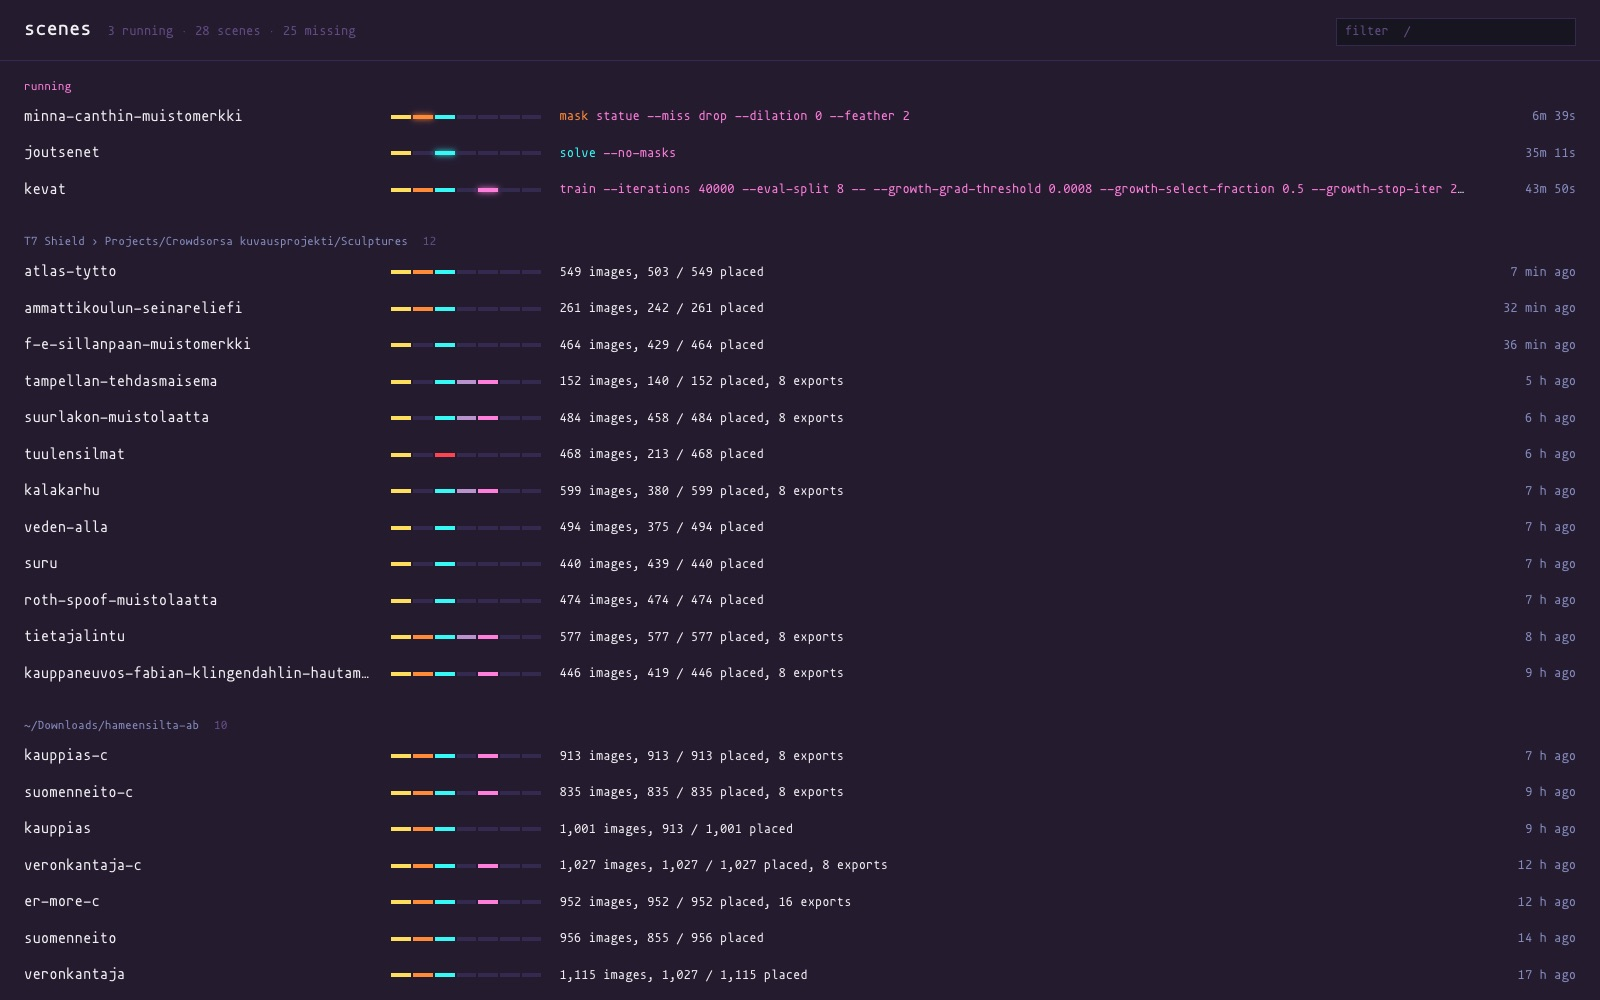
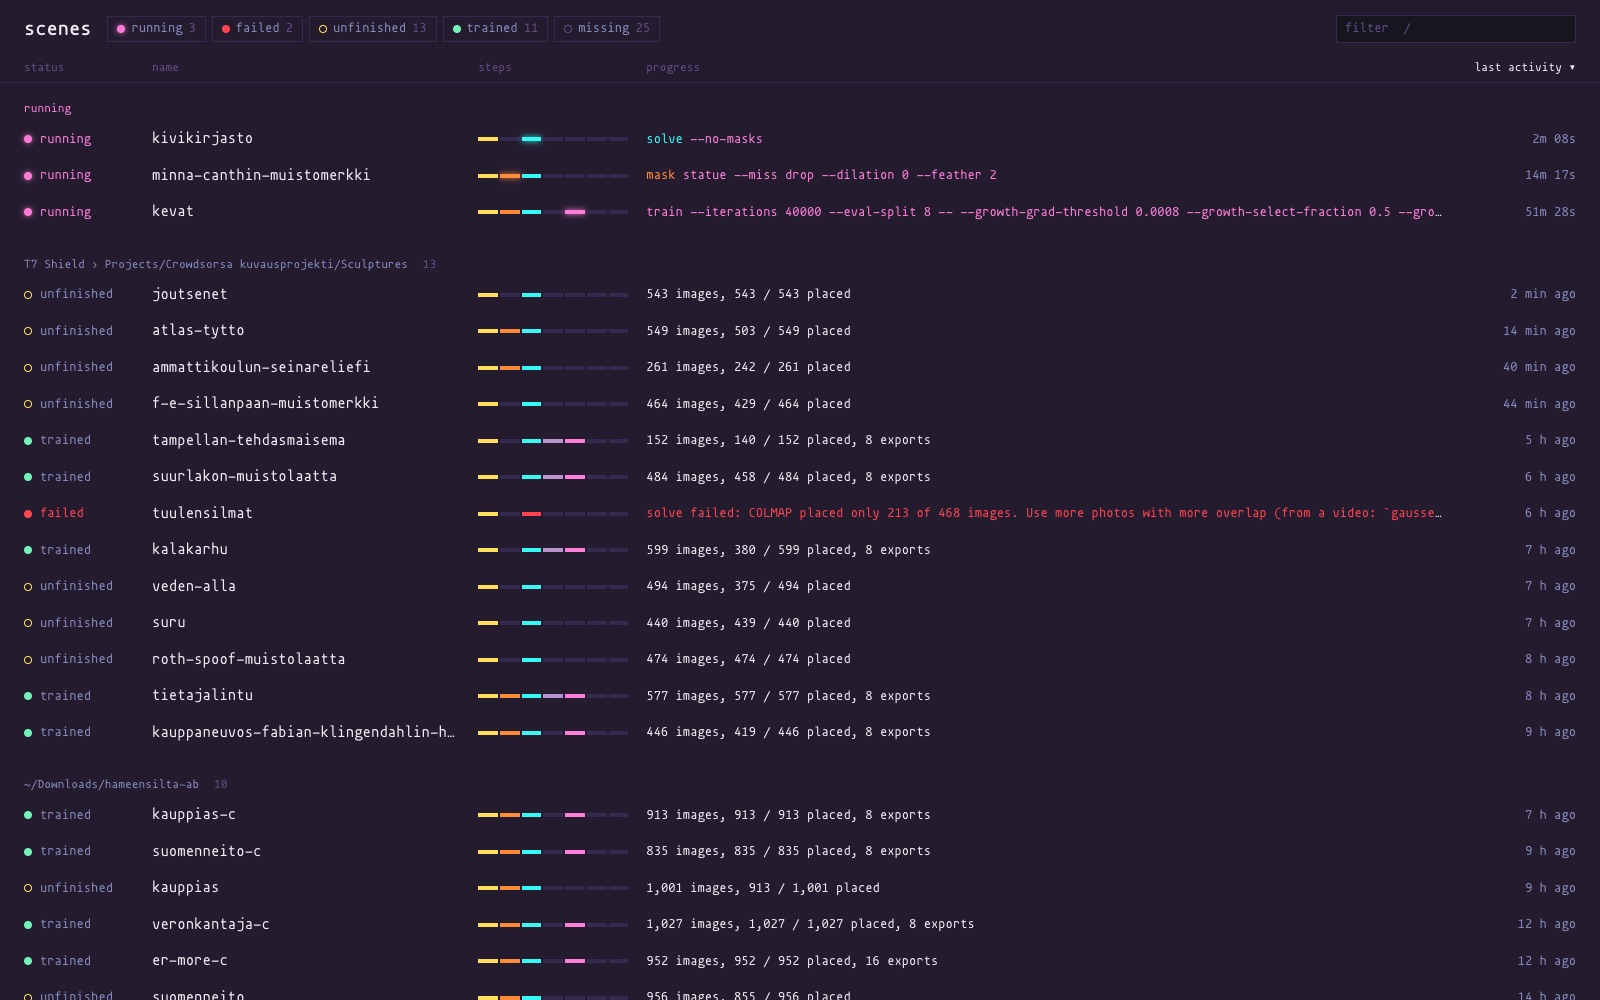
monitor: status bullets, status filter chips and sortable columns in the scenes list
- each scene is running, failed (failed, interrupted or killed), unfinished,
  trained or missing; the bullet's tooltip says why
- chips filter by status; column heads sort by status, name or last activity
- the steps table shows a step without an end record as killed, not running

diff --git a/web/src/Hub.tsx b/web/src/Hub.tsx
@@ -5,12 +5,52 @@ import { stepMetric, stepStatus } from "./App";
 
 const RUNS = 30; // steps shown before "show all"
 
+/** What a scene is doing: a running command, a last step that failed or was killed, a trained splat, or neither. */
+type Kind = "running" | "failed" | "idle" | "done" | "missing";
+const KINDS: [Kind, string][] = [["running", "running"], ["failed", "failed"], ["idle", "unfinished"], ["done", "trained"], ["missing", "missing"]];
+const RANK: Record<Kind, number> = { running: 0, failed: 1, idle: 2, done: 3, missing: 4 };
+type Sort = "status" | "name" | "last";
+
+interface Status {
+  kind: Kind;
+  word: string; // running, failed, interrupted, killed, trained, unfinished, missing
+  why: string; // the bullet's tooltip
+}
+
+function sceneStatus(scene: SceneSummary): Status {
+  if (scene.missing) return { kind: "missing", word: "missing", why: "the folder is gone: drive unplugged, moved or deleted" };
+  if (scene.error) return { kind: "failed", word: "unreadable", why: scene.error };
+  if (scene.holder) return { kind: "running", word: "running", why: `gausser ${scene.holder.argv.join(" ")}` };
+  const last = [...(scene.history ?? [])].sort((a, b) => a.start - b.start).pop();
+  if (last && last.end === undefined) {
+    return { kind: "failed", word: "killed", why: `${last.step} has no end record: its process was killed or the Mac shut down` };
+  }
+  if (last && last.ok === false) {
+    const word = last.error === "interrupted" ? "interrupted" : "failed";
+    return { kind: "failed", word, why: `${last.step} ${word}${last.error && word === "failed" ? `: ${last.error}` : ""}` };
+  }
+  if (scene.trained) return { kind: "done", word: "trained", why: "the newest splat is trained from the current model" };
+  return { kind: "idle", word: "unfinished", why: last ? `last step: ${last.step}, no current splat yet` : "no step has run yet" };
+}
+
+function compare(sort: Sort, flip: boolean) {
+  return (a: SceneSummary, b: SceneSummary) => {
+    const order = sort === "name" ? a.name.localeCompare(b.name)
+      : sort === "last" ? b.last - a.last
+      : RANK[sceneStatus(a).kind] - RANK[sceneStatus(b).kind] || b.last - a.last;
+    return flip ? -order : order;
+  };
+}
+
 /** Every scene gausser has worked on, and every step it ran. */
 export function Hub() {
   const [data, setData] = useState<Scenes | null>(null);
   const [offline, setOffline] = useState(false);
   const [filter, setFilter] = useState("");
   const [allRuns, setAllRuns] = useState(false);
+  const [only, setOnly] = useState<Kind | null>(null);
+  const [sort, setSort] = useState<Sort>("last");
+  const [flip, setFlip] = useState(false);
   const input = useRef<HTMLInputElement>(null);
   useEffect(() => {
     let stop = false;
@@ -43,26 +83,49 @@ export function Hub() {
 
   if (!data) return <div className="empty">{offline ? "The monitor is not running. Start it with `gausser monitor`." : "Loading…"}</div>;
   const query = filter.trim().toLowerCase();
-  const scenes = data.scenes.filter((s) => !query || `${s.name} ${s.root}`.toLowerCase().includes(query));
+  const matching = data.scenes.filter((s) => !query || `${s.name} ${s.root}`.toLowerCase().includes(query));
+  const counts = new Map<Kind, number>();
+  for (const scene of matching) counts.set(sceneStatus(scene).kind, (counts.get(sceneStatus(scene).kind) ?? 0) + 1);
+  const scenes = matching.filter((s) => !only || sceneStatus(s).kind === only).sort(compare(sort, flip));
   const running = scenes.filter((s) => !s.missing && s.holder);
   const missing = scenes.filter((s) => s.missing);
-  const groups = new Map<string, SceneSummary[]>(); // in the order of each folder's newest scene
+  const groups = new Map<string, SceneSummary[]>(); // in the order of each folder's first scene
   for (const scene of scenes) {
     if (scene.missing || scene.holder) continue;
     const group = scene.group ?? scene.root.slice(0, scene.root.lastIndexOf("/"));
     groups.set(group, [...(groups.get(group) ?? []), scene]);
   }
   const names = new Map(data.scenes.map((s) => [s.root, s.name]));
+  const held = new Map(data.scenes.flatMap((s) => (s.holder ? [[s.root, s.holder.start] as const] : [])));
   const shown = new Set(scenes.map((s) => s.root));
   const runs = data.runs.filter((run) => shown.has(run.scene));
   const total = data.scenes.length;
-  const gone = data.scenes.filter((s) => s.missing).length;
+  const sortBy = (key: Sort) => {
+    if (key === sort) setFlip(!flip);
+    else {
+      setSort(key);
+      setFlip(false);
+    }
+  };
+  const head = (key: Sort, label: string) => (
+    <button className={`col ${sort === key ? "active" : ""}`} onClick={() => sortBy(key)}>
+      {label}{sort === key ? (flip ? " ▴" : " ▾") : ""}
+    </button>
+  );
   return (
     <div className="hub">
+      <div className="hub-top">
       <header className="header">
         <h1 className="scene-name">scenes</h1>
-        <span className="scene-root">
-          {data.scenes.filter((s) => s.holder).length} running · {total - gone} scenes · {gone} missing
+        <span className="chips">
+          {KINDS.map(([kind, label]) => (
+            <button
+              key={kind} className={`chip ${only === kind ? "active" : ""}`} disabled={!counts.get(kind)}
+              onClick={() => setOnly(only === kind ? null : kind)} title={only === kind ? "show all" : `only ${label}`}
+            >
+              <span className={`dot ${kind}`} />{label} <span className="count">{counts.get(kind) ?? 0}</span>
+            </button>
+          ))}
         </span>
         <input
           ref={input} className="filter" type="search" placeholder="filter  /" value={filter}
@@ -75,8 +138,16 @@ export function Hub() {
           }}
         />
       </header>
+      <div className="columns">
+        {head("status", "status")}
+        {head("name", "name")}
+        <span className="col">steps</span>
+        <span className="col">progress</span>
+        {head("last", "last activity")}
+      </div>
+      </div>
       {total === 0 && <p className="label hub-note">Scenes appear here once a gausser step runs in them or `gausser monitor` opens them.</p>}
-      {total > 0 && scenes.length === 0 && <p className="label hub-note">No scene matches “{filter}”.</p>}
+      {total > 0 && scenes.length === 0 && <p className="label hub-note">No scene matches{query ? ` “${filter}”` : ""}{only ? ` among the ${only === "idle" ? "unfinished" : only} ones` : ""}.</p>}
       {running.length > 0 && (
         <section className="scene-group">
           <h2 className="group-head live">running</h2>
@@ -90,7 +161,7 @@ export function Hub() {
         </section>
       ))}
       {missing.length > 0 && (
-        <details className="scene-group missing-folders" open={query ? true : undefined}>
+        <details className="scene-group missing-folders" open={query || only ? true : undefined}>
           <summary className="group-head">{missing.length} missing folders <span className="count">drive unplugged, moved or deleted</span></summary>
           {missing.map((scene) => <SceneRow key={scene.root} scene={scene} now={data.now} />)}
         </details>
@@ -100,7 +171,7 @@ export function Hub() {
         <table>
           <tbody>
             {(allRuns ? runs : runs.slice(0, RUNS)).map((run) => (
-              <RunRow key={`${run.scene}-${run.step}-${run.start}`} run={run} name={names.get(run.scene) ?? run.scene} now={data.now} />
+              <RunRow key={`${run.scene}-${run.step}-${run.start}`} run={run} name={names.get(run.scene) ?? run.scene} held={held.get(run.scene)} now={data.now} />
             ))}
           </tbody>
         </table>
@@ -115,8 +186,10 @@ export function Hub() {
 function SceneRow({ scene, now }: { scene: SceneSummary; now: number }) {
   const full = scene.history && scene.images ? (scene as State) : null;
   const running = full?.holder;
+  const status = sceneStatus(scene);
   return (
     <a className={`scene-row ${scene.missing ? "missing" : ""}`} href={scene.missing ? undefined : sceneHref(scene.root)} title={scene.root}>
+      <span className={`scene-status ${status.kind}`} title={status.why}><span className={`dot ${status.kind}`} />{status.word}</span>
       <span className="scene-row-name">{scene.name}</span>
       <span className="mini-rail">
         {STEPS.map((step) => {
@@ -125,7 +198,10 @@ function SceneRow({ scene, now }: { scene: SceneSummary; now: number }) {
         })}
       </span>
       <span className="scene-row-info">
-        {scene.missing ? prettyPath(scene.root) : scene.error ? scene.error : running ? <RunningLine state={full} argv={running.argv} /> : full ? summaryLine(full) : ""}
+        {scene.missing ? prettyPath(scene.root)
+          : running ? <RunningLine state={full} argv={running.argv} />
+          : status.kind === "failed" ? <span className="bad">{status.why}</span>
+          : full ? summaryLine(full) : ""}
       </span>
       <span className="scene-row-when">{running ? duration(now - running.start) : ago(now - scene.last)}</span>
     </a>
@@ -154,15 +230,17 @@ function summaryLine(state: State): string {
   return parts.join(", ");
 }
 
-function RunRow({ run, name, now }: { run: HistoryRecord & { scene: string }; name: string; now: number }) {
-  const status = run.end === undefined ? "running" : run.ok ? "ok" : run.error === "interrupted" ? "interrupted" : "failed";
+function RunRow({ run, name, held, now }: { run: HistoryRecord & { scene: string }; name: string; held?: number; now: number }) {
+  const open = run.end === undefined;
+  const status = open ? (held !== undefined && run.start >= held ? "running" : "killed")
+    : run.ok ? "ok" : run.error === "interrupted" ? "interrupted" : "failed";
   return (
     <tr onClick={() => (location.href = sceneHref(run.scene))}>
       <td className="label">{clock(run.start)}</td>
       <td>{name}</td>
       <td className={`step-${run.step}`}>{run.step}</td>
       <td className={status === "ok" ? "ok" : status === "running" ? "live" : "bad"}>{status}</td>
-      <td>{duration((run.end ?? now) - run.start)}</td>
+      <td>{status === "killed" ? "" : duration((run.end ?? now) - run.start)}</td>
       <td className="label">{run.run ? String(run.run) : run.error && status === "failed" ? run.error : ""}</td>
     </tr>
   );

diff --git a/web/src/styles.css b/web/src/styles.css
@@ -208,7 +208,37 @@ a.button { text-decoration: none; color: inherit; }
 
 /* scenes */
 .hub { height: 100%; overflow-y: auto; padding-bottom: 40px; }
-.hub .header { padding-bottom: 14px; border-bottom: 1px solid var(--line); }
+.hub-top { position: sticky; top: 0; z-index: 2; background: var(--bg); border-bottom: 1px solid var(--line); }
+.hub .header { padding-bottom: 10px; align-items: center; }
+.chips { flex: 1; display: flex; flex-wrap: wrap; gap: 6px; min-width: 0; }
+.chip {
+  display: inline-flex; align-items: center; gap: 6px; padding: 2px 9px; cursor: pointer;
+  background: none; border: 1px solid var(--line); color: var(--muted);
+}
+.chip:hover:not(:disabled) { color: var(--text); border-color: var(--line-2); }
+.chip.active { color: var(--text); border-color: var(--train); background: var(--raise); }
+.chip:disabled { opacity: 0.4; cursor: default; }
+.chip .count { color: var(--dim); }
+.dot { width: 8px; height: 8px; border-radius: 50%; flex: none; background: var(--dim); }
+.dot.running { background: var(--train); box-shadow: 0 0 6px var(--train); animation: pulse 1.6s ease-in-out infinite; }
+.dot.failed { background: var(--red); }
+.dot.idle { background: none; border: 1px solid var(--frames); }
+.dot.done { background: var(--lod); }
+.dot.missing { background: none; border: 1px solid var(--dim); }
+@keyframes pulse { 50% { opacity: 0.35; } }
+@media (prefers-reduced-motion: reduce) { .dot.running { animation: none; } }
+.columns, .scene-row {
+  display: grid; grid-template-columns: 110px minmax(160px, 1fr) 150px minmax(0, 2.6fr) 110px;
+  gap: 18px; align-items: center; padding-left: 24px; padding-right: 24px;
+}
+.columns { padding-top: 4px; padding-bottom: 6px; }
+.col { padding: 0; background: none; border: 0; text-align: left; color: var(--dim); font-size: 12px; }
+button.col { cursor: pointer; }
+button.col:hover, .col.active { color: var(--text); }
+.columns > :last-child { text-align: right; }
+.scene-status { display: inline-flex; align-items: center; gap: 8px; color: var(--muted); white-space: nowrap; }
+.scene-status.failed { color: var(--red); }
+.scene-status.running { color: var(--train); }
 .hub .filter {
   width: 240px; padding: 3px 8px; background: var(--deep); border: 1px solid var(--line); color: var(--text);
 }
@@ -224,10 +254,7 @@ a.button { text-decoration: none; color: inherit; }
 .missing-folders summary { cursor: pointer; list-style: none; }
 .missing-folders summary::before { content: "▸ "; }
 .missing-folders[open] summary::before { content: "▾ "; }
-.scene-row {
-  display: grid; grid-template-columns: minmax(160px, 1fr) 150px minmax(0, 2.6fr) 90px;
-  gap: 18px; align-items: center; padding: 7px 24px; color: inherit; text-decoration: none;
-}
+.scene-row { padding-top: 7px; padding-bottom: 7px; color: inherit; text-decoration: none; }
 .scene-row:hover { background: var(--raise); }
 .scene-row.missing { opacity: 0.45; }
 .scene-row-name { font-size: 15px; white-space: nowrap; overflow: hidden; text-overflow: ellipsis; }

diff --git a/docs/monitor.html b/docs/monitor.html
@@ -38,7 +38,10 @@ below are real captures of scenes on this Mac, two of them while Brush was train
 
 <h2 id="hub">All scenes</h2>
 <figure><img src="img/monitor-hub.jpg" alt="Monitor list of all scenes">
-<figcaption>Running scenes first, with the running step and its arguments. The rest are grouped by the folder that holds them,
+<figcaption>Each scene has a status: <b>running</b> (a command holds the scene), <b>failed</b> (its last step failed,
+was interrupted or was killed, so it has no end record), <b>unfinished</b> (the last step worked, but there is no current splat),
+<b>trained</b> (the newest splat is trained from the current model) or <b>missing</b>. The chips filter by status; the column
+heads sort by status, name or last activity (click again to reverse). Running scenes first, with the running step and its arguments. The rest are grouped by the folder that holds them,
 newest first, with a step bar per scene. Folders that are gone (an unplugged drive, a moved or deleted scene) are folded at the end.
 <kbd>/</kbd> filters scenes and steps by name or path.</figcaption></figure>
 <p>A scene is listed under its name: the one <code>gausser name "Atlas-tyttö"</code> saved in <code>.gausser/name.txt</code>, else

diff --git a/docs/src/monitor.html b/docs/src/monitor.html
@@ -11,7 +11,10 @@ below are real captures of scenes on this Mac, two of them while Brush was train
 
 <h2 id="hub">All scenes</h2>
 <figure><img src="img/monitor-hub.jpg" alt="Monitor list of all scenes">
-<figcaption>Running scenes first, with the running step and its arguments. The rest are grouped by the folder that holds them,
+<figcaption>Each scene has a status: <b>running</b> (a command holds the scene), <b>failed</b> (its last step failed,
+was interrupted or was killed, so it has no end record), <b>unfinished</b> (the last step worked, but there is no current splat),
+<b>trained</b> (the newest splat is trained from the current model) or <b>missing</b>. The chips filter by status; the column
+heads sort by status, name or last activity (click again to reverse). Running scenes first, with the running step and its arguments. The rest are grouped by the folder that holds them,
 newest first, with a step bar per scene. Folders that are gone (an unplugged drive, a moved or deleted scene) are folded at the end.
 <kbd>/</kbd> filters scenes and steps by name or path.</figcaption></figure>
 <p>A scene is listed under its name: the one <code>gausser name "Atlas-tyttö"</code> saved in <code>.gausser/name.txt</code>, else
